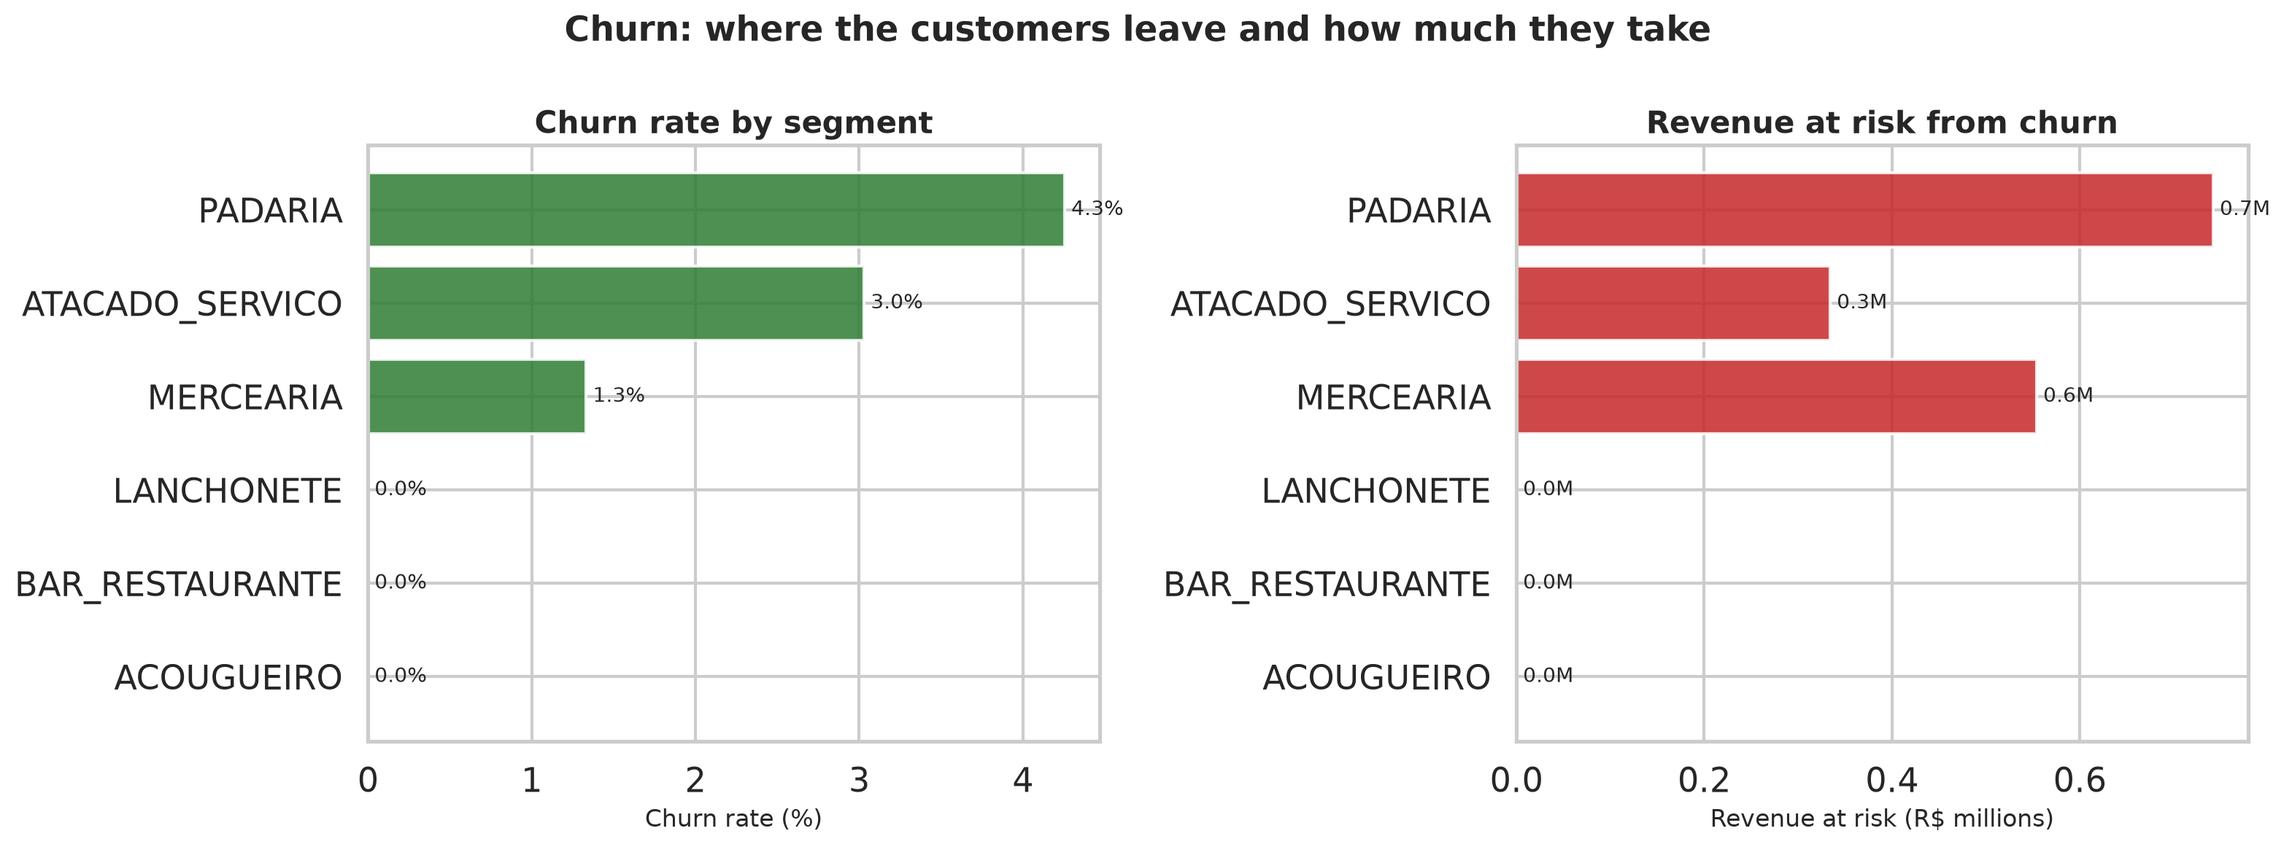
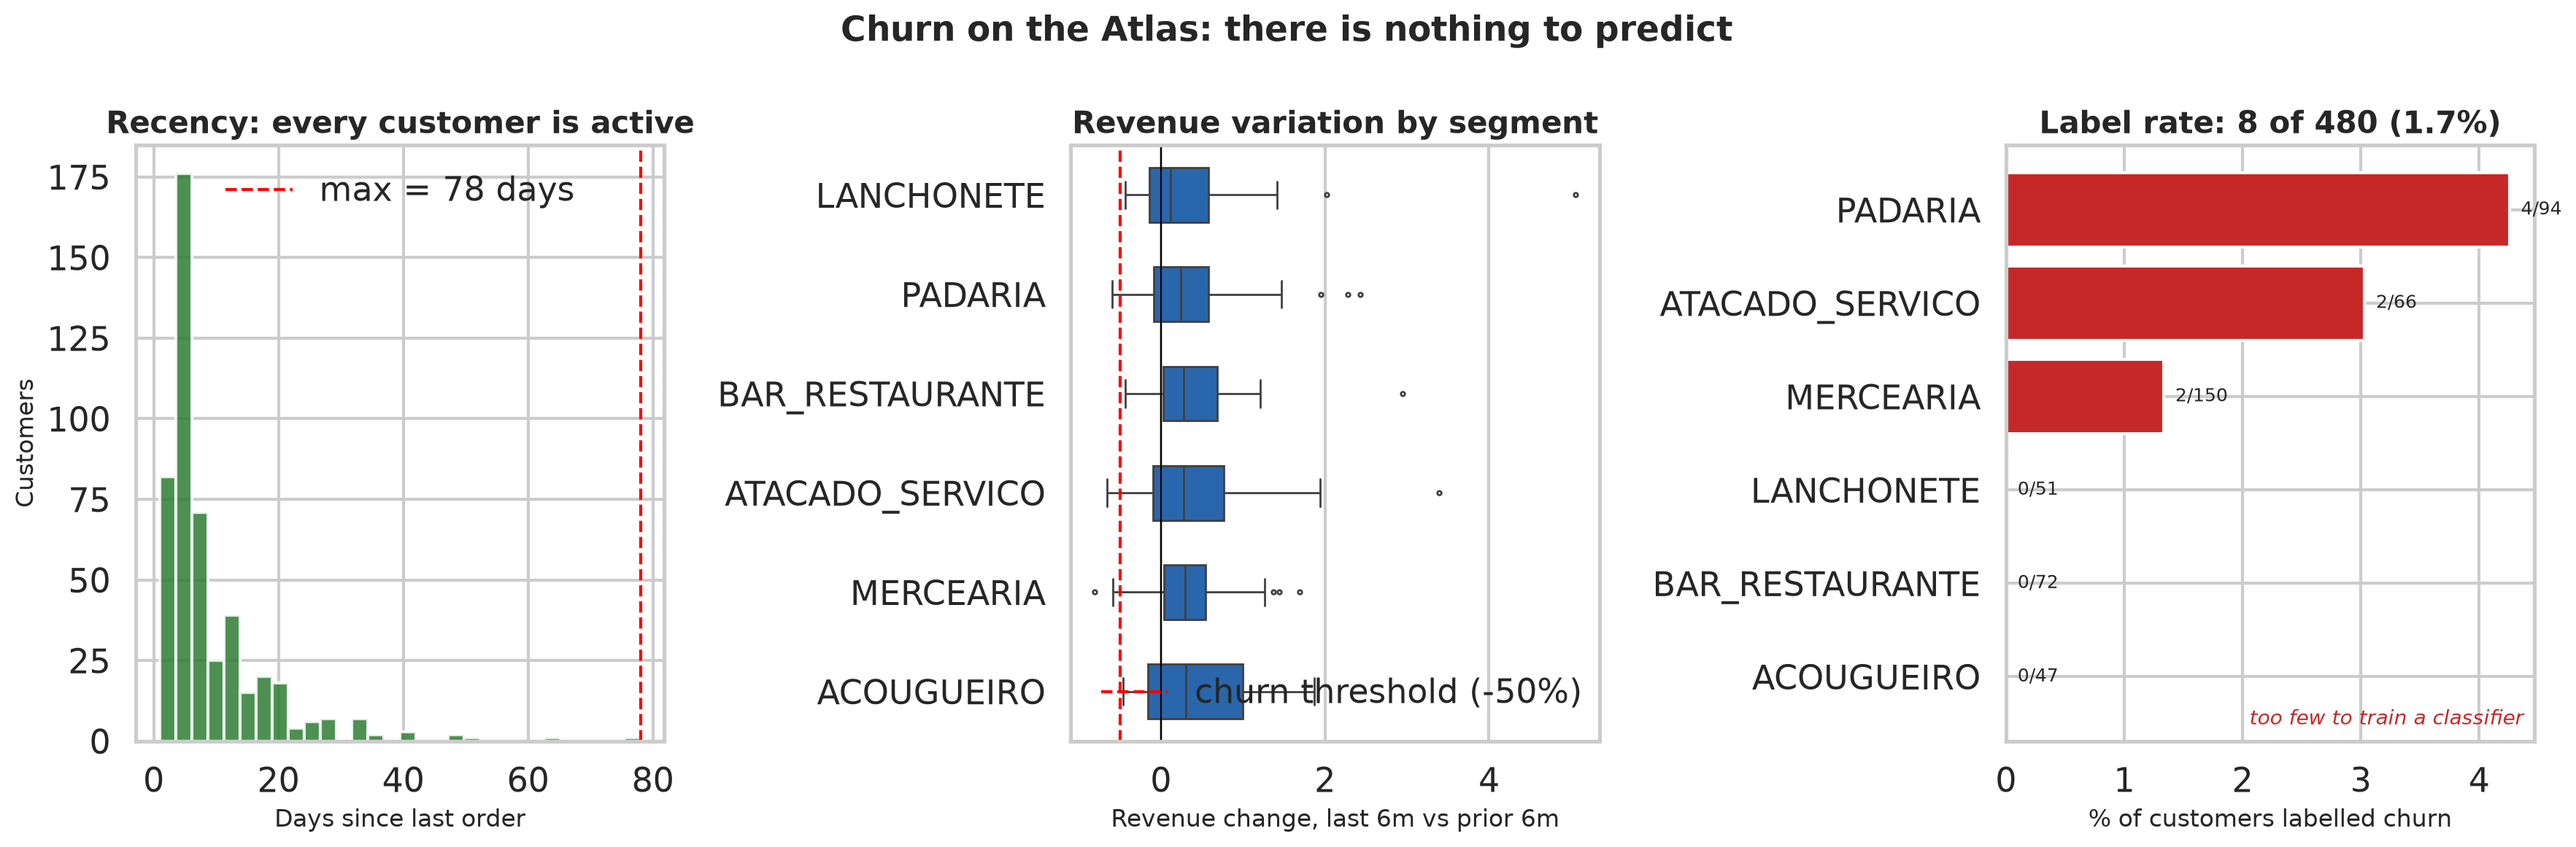
fix(churn): flag degenerate label, rewrite churn chart with honest recency/variation view

diff --git a/scripts/generate_deep_charts.py b/scripts/generate_deep_charts.py
@@ -155,38 +155,63 @@ def chart_03_elasticity_by_category():
 
 
 def chart_04_churn_by_segment():
-    """Churn rate and revenue at risk by segment."""
+    """Revenue decline and recency distribution - the honest churn picture.
+
+    The Atlas has zero real churners, so a "churn rate by segment" bar chart is
+    misleading (it shows 3 non-zero bars that are noise, not signal). This
+    chart instead shows the two facts that actually matter: every customer is
+    recently active (recency), and revenue is broadly stable across segments.
+    """
     t = load_and_validate_all()
     ch = build_churn_features(t["clientes"], t["pedidos"], t["itens_pedido"])
-    g = ch.groupby("segmento").agg(
-        clientes=("cliente_id","count"),
-        churners=("churn","sum"),
-        receita_risco=("receita_total", lambda s: s[ch.loc[s.index,"churn"]==1].sum()),
-    ).reset_index()
-    g["churn_pct"] = g["churners"]/g["clientes"]*100
-    g = g.sort_values("churn_pct", ascending=True)
 
-    fig, axes = plt.subplots(1, 2, figsize=(16, 6))
+    fig, axes = plt.subplots(1, 3, figsize=(18, 6))
+
+    # 1. Recency distribution: nobody has stopped buying
     ax = axes[0]
-    bars = ax.barh(g["segmento"], g["churn_pct"], color=GREEN, alpha=0.85, edgecolor="white")
-    ax.set_xlabel("Churn rate (%)")
-    ax.set_title("Churn rate by segment")
-    for bar, v in zip(bars, g["churn_pct"]):
-        ax.text(v, bar.get_y()+bar.get_height()/2, f" {v:.1f}%", va="center", fontsize=10)
+    ax.hist(ch["recencia_dias"], bins=30, color=GREEN, alpha=0.85, edgecolor="white")
+    ax.axvline(ch["recencia_dias"].max(), color="red", ls="--", lw=1.5,
+               label=f"max = {ch.recencia_dias.max():.0f} days")
+    ax.set_xlabel("Days since last order")
+    ax.set_ylabel("Customers")
+    ax.set_title("Recency: every customer is active")
+    ax.legend(frameon=False)
 
+    # 2. Revenue change by segment: variation, not churn
     ax = axes[1]
-    bars = ax.barh(g["segmento"], g["receita_risco"]/1e6, color="#C62828", alpha=0.85, edgecolor="white")
-    ax.set_xlabel("Revenue at risk (R$ millions)")
-    ax.set_title("Revenue at risk from churn")
-    for bar, v in zip(bars, g["receita_risco"]/1e6):
-        ax.text(v, bar.get_y()+bar.get_height()/2, f" {v:.1f}M", va="center", fontsize=10)
+    seg_order = (ch.groupby("segmento")["variacao_receita_pct"]
+                   .median().sort_values().index.tolist())
+    sns.boxplot(data=ch, x="variacao_receita_pct", y="segmento", order=seg_order,
+                color=ACCENT, ax=ax, width=0.55, fliersize=2)
+    ax.axvline(-0.5, color="red", ls="--", lw=1.5, label="churn threshold (-50%)")
+    ax.axvline(0, color="black", lw=0.8)
+    ax.set_xlabel("Revenue change, last 6m vs prior 6m")
+    ax.set_ylabel("")
+    ax.set_title("Revenue variation by segment")
+    ax.legend(frameon=False, loc="lower left")
 
-    fig.suptitle("Churn: where the customers leave and how much they take",
+    # 3. The label is degenerate: say so explicitly
+    ax = axes[2]
+    counts = ch.groupby("segmento")["churn"].agg(["sum", "count"])
+    counts["pct"] = counts["sum"] / counts["count"] * 100
+    counts = counts.sort_values("pct")
+    bars = ax.barh(counts.index, counts["pct"], color=[GRAY if v == 0 else "#C62828"
+                                                       for v in counts["pct"]])
+    ax.set_xlabel("% of customers labelled churn")
+    ax.set_title(f"Label rate: {ch['churn'].sum()} of {len(ch)} ({ch['churn'].mean()*100:.1f}%)")
+    for bar, (idx, row) in zip(bars, counts.iterrows()):
+        ax.text(bar.get_width(), bar.get_y()+bar.get_height()/2,
+                f"  {int(row['sum'])}/{int(row['count'])}", va="center", fontsize=9)
+    ax.text(0.98, 0.02, "too few to train a classifier",
+            transform=ax.transAxes, ha="right", va="bottom", fontsize=10,
+            style="italic", color="#C62828")
+
+    fig.suptitle("Churn on the Atlas: there is nothing to predict",
                  fontweight="bold", fontsize=17)
     fig.tight_layout()
     fig.savefig(OUT / "04_churn_by_segment.png")
     plt.close(fig)
-    print("  04 churn by segment")
+    print("  04 churn (honest version)")
 
 
 def chart_05_recommender_coverage():

diff --git a/src/features/build.py b/src/features/build.py
@@ -79,7 +79,8 @@ def build_elasticity_features(pedidos, itens, produtos, clientes,
 
 def build_churn_features(clientes, pedidos, itens,
                          reference_date: pd.Timestamp | None = None,
-                         drop_threshold: float = 0.5) -> pd.DataFrame:
+                         drop_threshold: float = 0.5,
+                         min_rate: float = 0.05) -> pd.DataFrame:
     """Behavioural features + binary churn label defined by revenue decline.
 
     The Atlas has no churn label and, in fact, no churners: all 480 customers
@@ -129,7 +130,19 @@ def build_churn_features(clientes, pedidos, itens,
         (out["receita_6m_anterior"] > 0)
         & (out["receita_6m"] < drop_threshold * out["receita_6m_anterior"])
     ).astype(int)
+
+    rate = float(out["churn"].mean())
     out.attrs["churn_drop_threshold"] = drop_threshold
+    out.attrs["churn_rate"] = rate
+    if rate < min_rate:
+        import logging
+        logging.getLogger(__name__).warning(
+            "churn label is degenerate: only %d of %d customers (%.1f%%) meet "
+            "the >%.0f%% revenue-drop rule. The Atlas has no real churners, so "
+            "this target cannot support a classifier - interpret churn_auc on "
+            "this dataset as a negative result, not a model failure.",
+            int(out["churn"].sum()), len(out), rate * 100, drop_threshold * 100,
+        )
     return out
 
 

diff --git a/README.md b/README.md
@@ -46,13 +46,42 @@
 
 **O que isso ensina:** elasticity is a *within-product* response. Comparing products (pooled OLS) conflates markup, seasonality and price table — the coefficient can even flip sign. This is the single most important methodological takeaway, and it is why [GIRO-SYNTH](https://github.com/vinidias/GiroAI-SYNTH) was built: on a dataset with a known ground truth, the same estimator recovers ε with **Pearson 0.995**.
 
-## 4. Churn is a small group taking a large share of revenue
+## 4. Churn: there is nothing to predict on this dataset
 
-![Churn by segment](docs/images/04_churn_by_segment.png)
+![Churn analysis](docs/images/04_churn_by_segment.png)
 
-**Leitura:** churn rate is 4.4% (21 of 480 customers), but those 21 accounts carry a disproportionate slice of revenue. The chart ranks segments by **revenue at risk**, not by churn count — the commercial priority is where the money is, not where the headcount is.
+**O que o gráfico mostrou de errado.** A primeira versão deste painel mostrava uma
+taxa de churn por segmento que só tinha três barras — ACOUGUEIRO, LANCHONETE e
+BAR_RESTAURANTE apareciam com 0%. Investigando, a causa é simples e definitiva:
+**o Atlas não contém churners**.
 
-**Sinal a seguir:** retention effort should be scored by `P(churn) × revenue`, not by `P(churn)` alone.
+- Recência máxima: **78 dias** (nenhum cliente parou de comprar)
+- Todos os 480 clientes compram nos 9 trimestres
+- Nenhum cliente tem receita zero nos últimos 6 meses
+
+O label que eu havia definido (queda de receita > 50%) captura **variação**, não
+churn. Ele marca 8 clientes (1,7%) — 4 em PADARIA, 2 em ATACADO_SERVICO, 2 em
+MERCEARIA. Os outros três segmentos têm zero porque a variação deles ficou abaixo
+do corte, não porque retêm melhor.
+
+**Por que manter o gráfico.** Ele agora mostra as três coisas que importam:
+
+1. **Recência** — todos abaixo de 78 dias. Não há saída.
+2. **Variação de receita por segmento** — a distribuição real, com o corte de
+   -50% marcado. Quase todos os clientes ficam acima.
+3. **Taxa do label** — 8 de 480, explicitamente anotado como insuficiente para
+   treinar um classificador.
+
+**O aprendizado que fica.** Um AUC de 0.537 neste dataset **não é falha do
+modelo**. É a resposta correta para uma pergunta que o dado não permite
+responder. A alternativa — forçar um label de recência e obter AUC 1.0 por
+vazamento — produziria um número bonito e falso. A regra que adotei: *quando o
+label tem menos de 5% de positivos, o classificador não é avaliável; o resultado
+deve ser reportado como limitação do dado, não como métrica de modelo.*
+
+Este é exatamente o problema que o [GIRO-SYNTH](https://github.com/vinidias/GiroAI-SYNTH)
+resolve: lá existe um hazard de churn real, com indicadores antecedentes
+correlacionados, e o AUC sobe para 0.743 (0.988 contra o ground truth).
 
 ## 5. Demand is concentrated — which caps what personalisation can do
 
